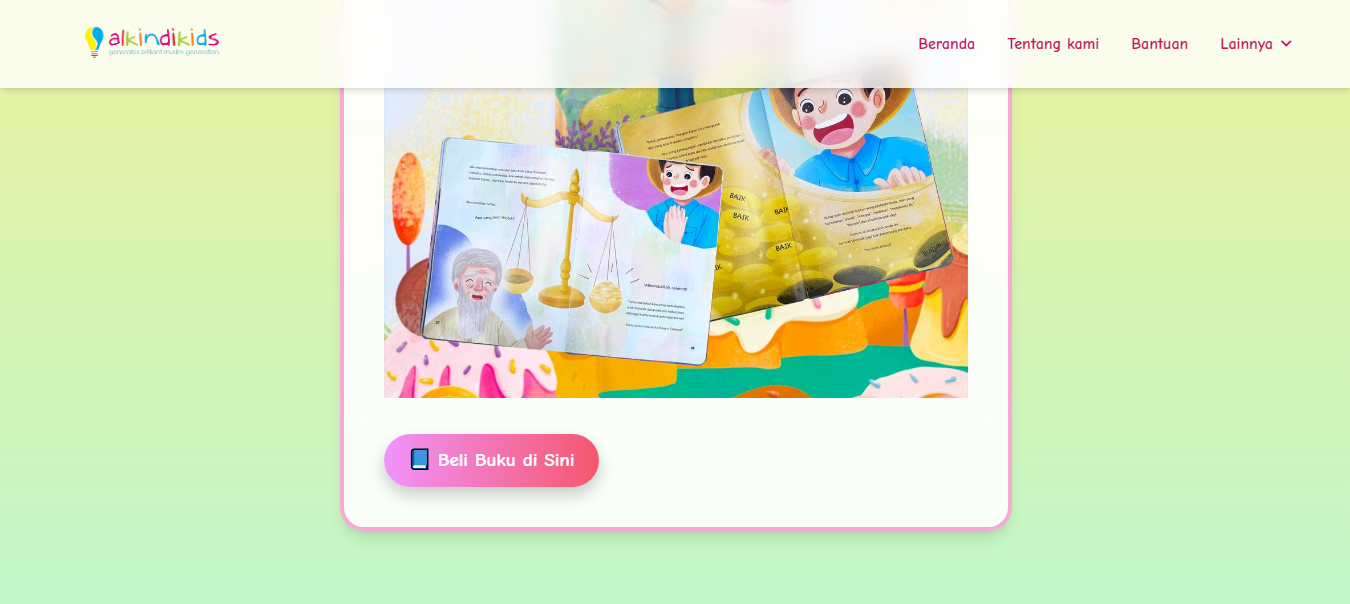
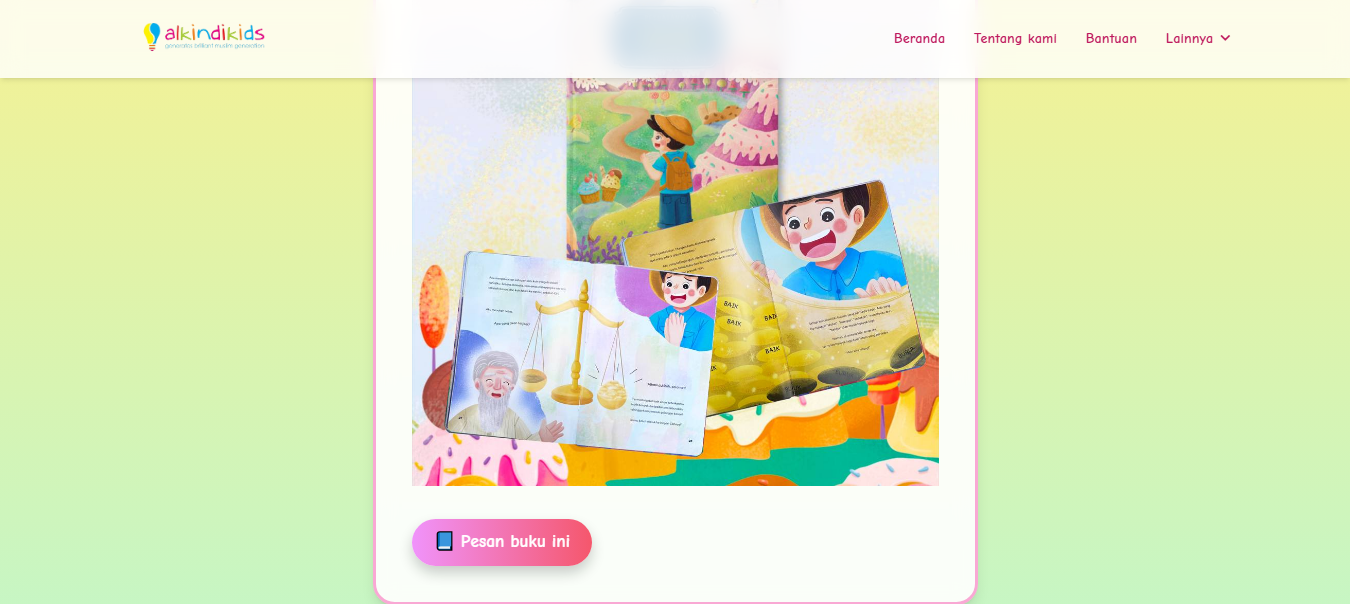
fix bantuan page

diff --git a/public/bantuan.html b/public/bantuan.html
@@ -125,7 +125,7 @@
             <img src="image/bantuan4.png" alt="Langkah 4: Melakukan Pembelian Buku" class="mx-auto rounded-lg shadow-md">
         </div>
         <p class="mb-4 leading-relaxed text-lg">
-          Jika Anda tertarik dengan rekomendasi buku yang diberikan, silahkan klik tombol "Beli Buku Disini". Anda akan diarahkan langsung ke halaman pembelian buku.
+          Jika Anda tertarik dengan rekomendasi buku yang diberikan, silahkan klik tombol "Pesan Buku Ini". Anda akan diarahkan langsung ke halaman pembelian buku.
         </p>
 
         <h2 class="text-2xl font-bold text-pink-700 mb-4 mt-6">Langkah 5: Menyelesaikan Pembelian</h2>
